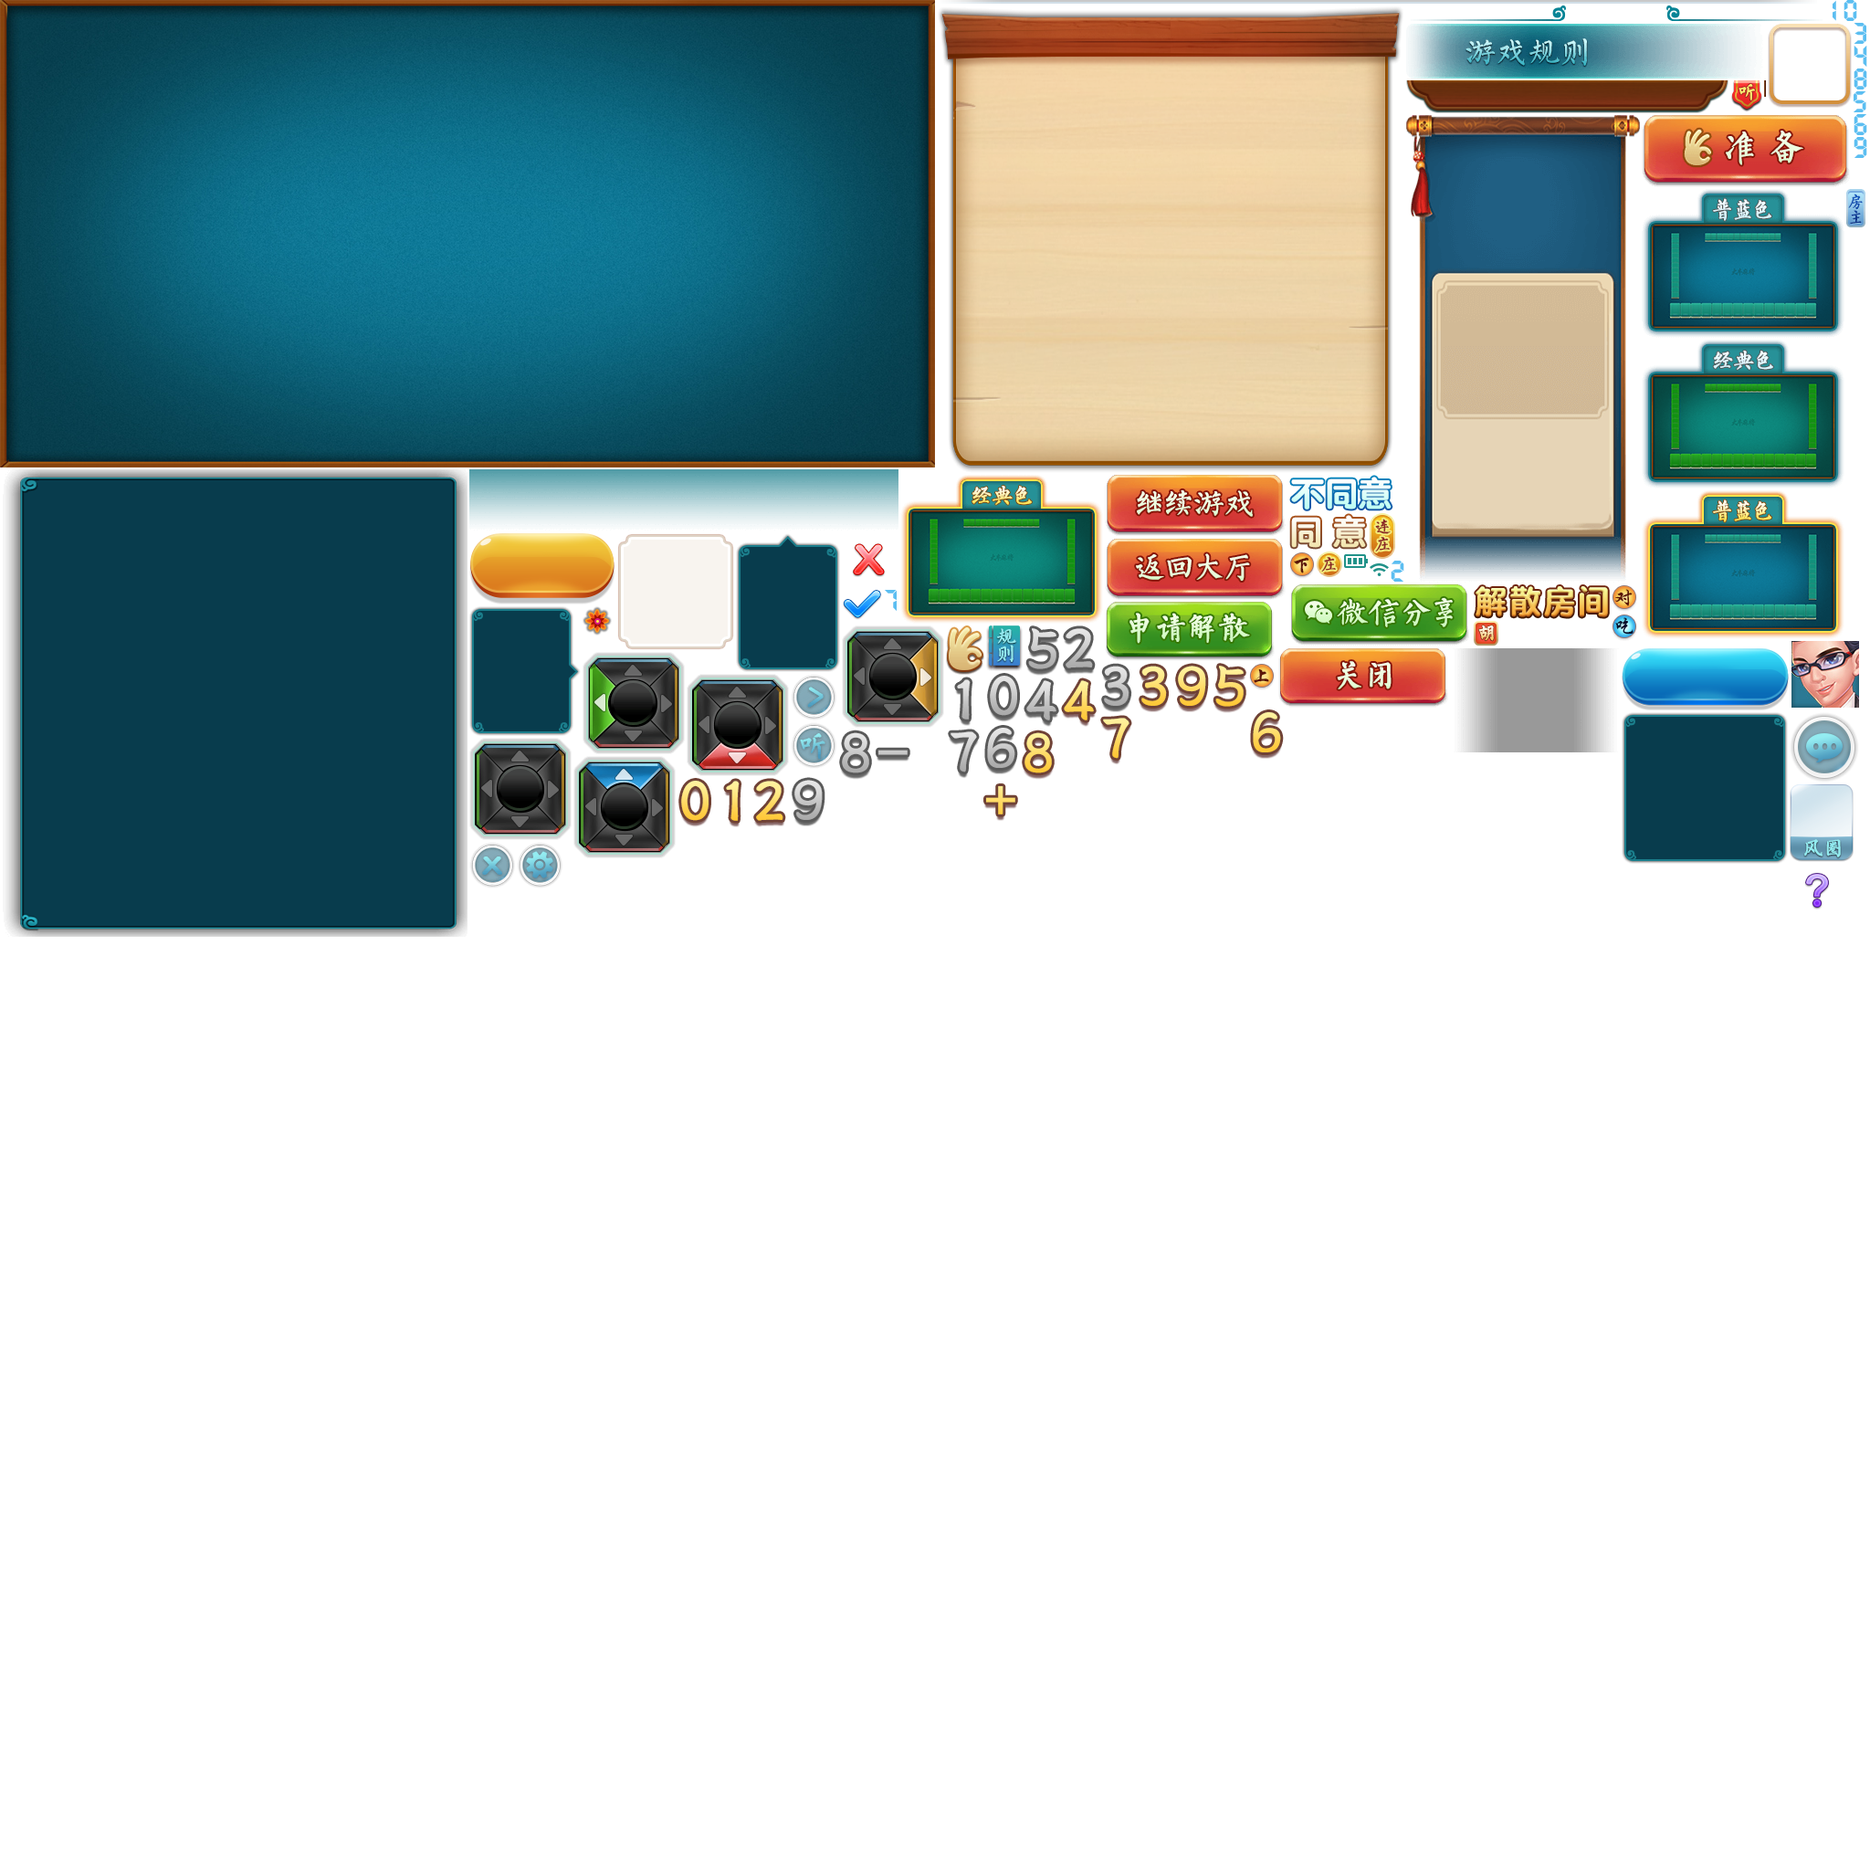
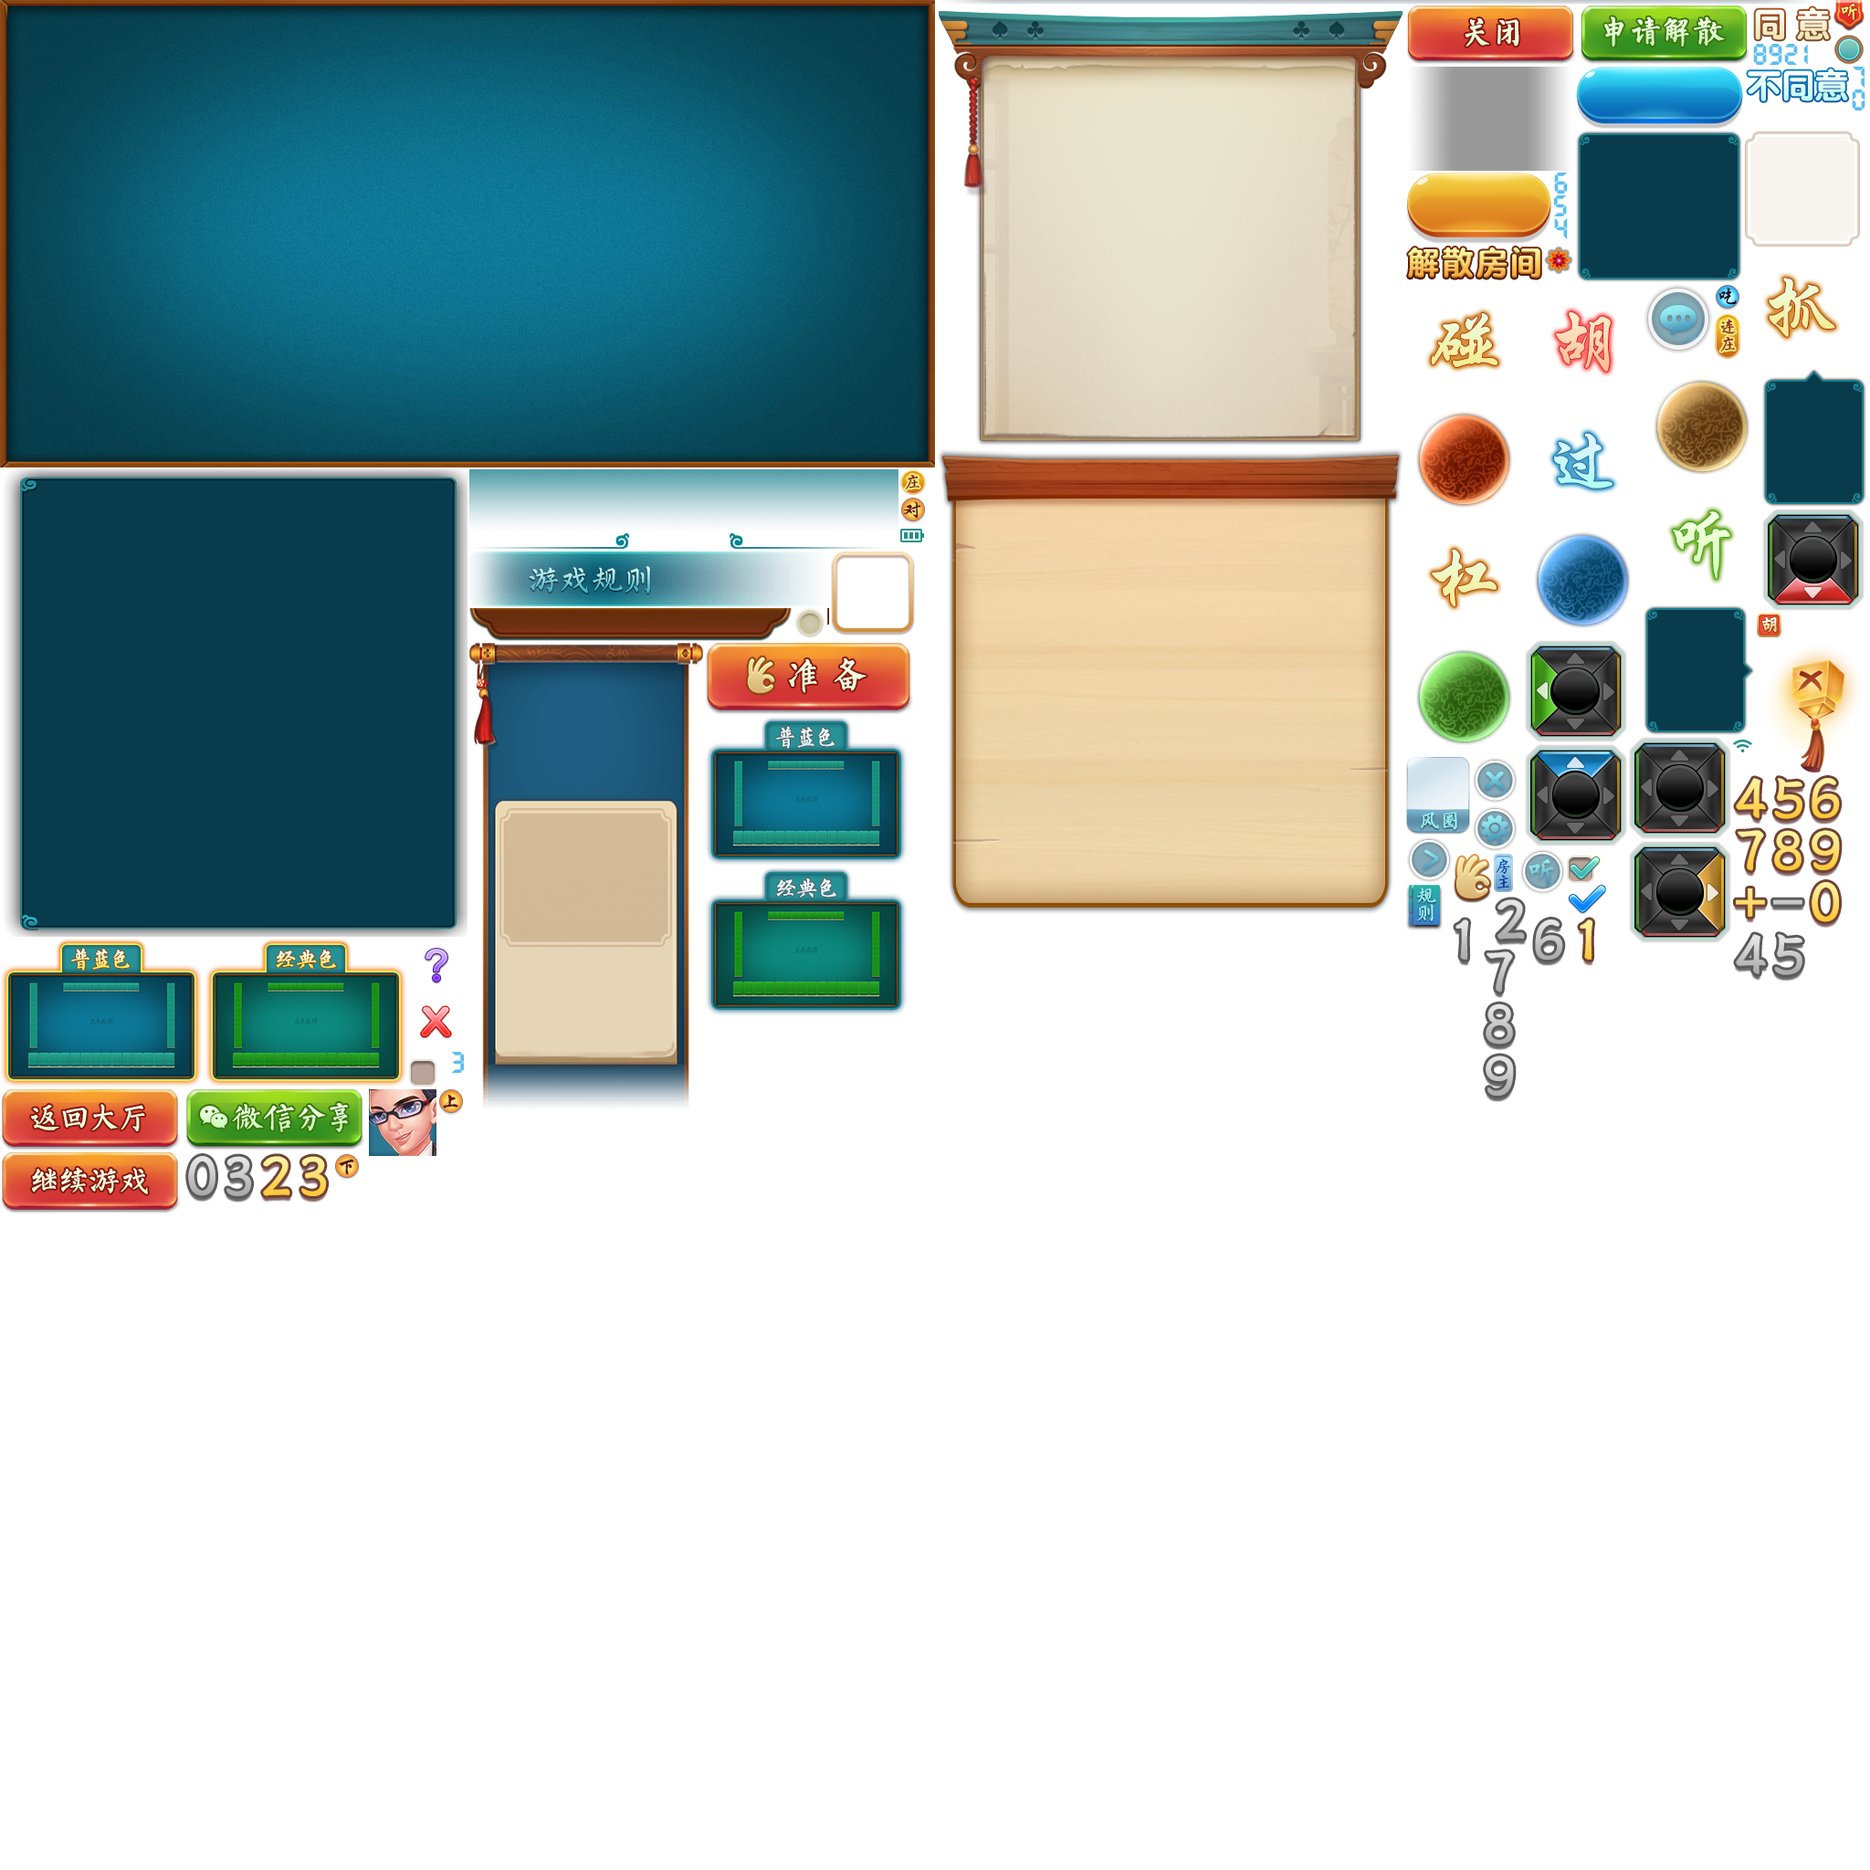
房间规则

Changed region(s): [[0.0, 0.0, 1.0, 0.6562]]

diff --git a/assets/Script/modules/lobby/views/DFRuleView.ts b/assets/Script/modules/lobby/views/DFRuleView.ts
@@ -37,19 +37,19 @@ export class DFRuleView {
     private priceCfg: object = null;
     private recordKey: string = "GZRule";
 
-    private readonly rules: {[key: string]: string | number | boolean} = {
-            ["roomType"]: 1,
-            ["playerNumAcquired"]: 4,
-            ["payNum"]: 24,
-            ["payType"]: 0,
-            ["handNum"]: 4,
-            ["doubleScoreWhenSelfDrawn"]: true,
-            ["doubleScoreWhenContinuousBanker"]: true,
-            ["doubleScoreWhenZuoYuanZi"]: true,
-            ["fengDingType"]: 0,
-            ["dunziPointType"]: 0,
-            //--游戏模块
-            ["modName"]: "gameb"
+    private readonly rules: { [key: string]: string | number | boolean } = {
+        ["roomType"]: 1,
+        ["playerNumAcquired"]: 4,
+        ["payNum"]: 24,
+        ["payType"]: 0,
+        ["handNum"]: 4,
+        ["doubleScoreWhenSelfDrawn"]: true,
+        ["doubleScoreWhenContinuousBanker"]: true,
+        ["doubleScoreWhenZuoYuanZi"]: true,
+        ["fengDingType"]: 0,
+        ["dunziPointType"]: 0,
+        //--游戏模块
+        ["modName"]: "gameb"
     };
 
     public destroy(): void {
@@ -68,7 +68,7 @@ export class DFRuleView {
         createRoomBtn.onClick(this.onCreateRoomBtnClick, this);
     }
 
-    public updatePriceCfg(priceCfgs: {[key: string]: object}): void {
+    public updatePriceCfg(priceCfgs: { [key: string]: object }): void {
         if (priceCfgs !== null) {
             const roomType = this.rules[`roomType`];
             this.priceCfg = priceCfgs[`${roomType}`];
@@ -100,11 +100,11 @@ export class DFRuleView {
         this.togglePays[0] = this.view.getChild("ownerPayButton").asButton;
         this.togglePays[1] = this.view.getChild("aapPayButton").asButton;
 
-        this.togglePays[0] .getChild("title").text = "房主支付";
-        this.togglePays[1] .getChild("title").text = "AA支付";
+        this.togglePays[0].getChild("title").text = "房主支付";
+        this.togglePays[1].getChild("title").text = "AA支付";
 
-        this.togglePays[0] .onClick(this.updateComsumer, this);
-        this.togglePays[1] .onClick(this.updateComsumer, this);
+        this.togglePays[0].onClick(this.updateComsumer, this);
+        this.togglePays[1].onClick(this.updateComsumer, this);
 
         // 人数
         this.togglePlayerNums[0] = this.view.getChild("2Player").asButton;
@@ -150,15 +150,15 @@ export class DFRuleView {
             Logger.debug("jsnoStr:", jsonStr);
             if (jsonStr !== "") {
                 try {
-                    const config = <{[key: string]: boolean | number}>JSON.parse(jsonStr);
+                    const config = <{ [key: string]: boolean | number }>JSON.parse(jsonStr);
                     this.toggleRoundCounts[<number>config[1]].selected = true;
                     this.togglePays[<number>config[2]].selected = true;
                     this.togglePlayerNums[<number>config[3]].selected = true;
                     this.toggleFengDingTypes[<number>config[4]].selected = true;
                     this.toggleDunziPointTypes[<number>config[5]].selected = true;
                     this.toggleZMJF.selected = <boolean>config[6];
-                    this.toggleLZJF.selected = <boolean> config[7];
-                    this.toggleJYZ.selected = <boolean> config[8];
+                    this.toggleLZJF.selected = <boolean>config[7];
+                    this.toggleJYZ.selected = <boolean>config[8];
                 } catch (e) {
                     Logger.error("parse config error:", e);
                     // 如果解析不了，则清理数据
@@ -168,7 +168,7 @@ export class DFRuleView {
         }
     }
 
-    private getConfigTable(): {[key: string]: {[key: number]: number}} {
+    private getConfigTable(): { [key: string]: { [key: number]: number } } {
         return {
             ["playerNumAcquired"]: {
                 [0]: 2,
@@ -236,6 +236,9 @@ export class DFRuleView {
         const fengdingIndex = this.getToggleIndex(this.toggleFengDingTypes);
         rules[`fengDingType`] = configTable[`fengDingType`][fengdingIndex];
 
+        const dunziIndex = this.getToggleIndex(this.toggleDunziPointTypes);
+        rules[`dunziPointType`] = configTable[`dunziPointType`][dunziIndex];
+
         rules[`doubleScoreWhenSelfDrawn`] = this.toggleZMJF.selected;
         rules[`doubleScoreWhenContinuousBanker`] = this.toggleLZJF.selected;
         rules[`doubleScoreWhenZuoYuanZi`] = this.toggleJYZ.selected;
@@ -258,20 +261,20 @@ export class DFRuleView {
 
         Logger.debug(`key: ${key}`);
 
-        const priceCfg = <{[key: string]: object}>this.priceCfg;
-        const activityPriceCfg =  <{[key: string]: object}>priceCfg.activityPriceCfg;
+        const priceCfg = <{ [key: string]: object }>this.priceCfg;
+        const activityPriceCfg = <{ [key: string]: object }>priceCfg.activityPriceCfg;
         if (activityPriceCfg !== null) {
-            const discountCfg = <{[key: string]: number}> activityPriceCfg.discountCfg;
+            const discountCfg = <{ [key: string]: number }>activityPriceCfg.discountCfg;
 
             return discountCfg[key];
         }
 
-        const originalPriceCfg = <{[key: string]: number}> priceCfg.originalPriceCfg;
+        const originalPriceCfg = <{ [key: string]: number }>priceCfg.originalPriceCfg;
         if (originalPriceCfg !== null) {
             return originalPriceCfg[key];
         }
 
-        return  0;
+        return 0;
     }
 
     private onCreateRoomBtnClick(): void {

diff --git a/assets/Script/modules/gameb/RoomRuleView.ts b/assets/Script/modules/gameb/RoomRuleView.ts
@@ -1,0 +1,119 @@
+import { Logger } from "../lobby/lcore/LCoreExports";
+
+/**
+ * 房间规则界面
+ */
+export class RoomRuleView extends cc.Component {
+
+    private view: fgui.GComponent;
+    private win: fgui.Window;
+
+    private eventTarget: cc.EventTarget;
+
+    public updateView(roomConfigStr: string): void {
+        //
+        const roomConfigJSON = <{ [key: string]: boolean | number | string }>JSON.parse(roomConfigStr);
+        Logger.debug("roomConfigJSON = ", roomConfigJSON);
+
+        const payType = <number>roomConfigJSON[`payType`];
+        const lianZhuangJiaFen = <boolean>roomConfigJSON[`doubleScoreWhenContinuousBanker`];
+        const ziMoJiaFen = <boolean>roomConfigJSON[`doubleScoreWhenSelfDrawn`];
+        const jinYuanZi = <boolean>roomConfigJSON[`doubleScoreWhenZuoYuanZi`];
+        const fengDingType = <number>roomConfigJSON[`fengDingType`];
+        const dunziPointType = <number>roomConfigJSON[`dunziPointType`];
+        const handNum = <number>roomConfigJSON[`handNum`];
+
+        if (payType !== undefined || payType !== null) {
+            this.view.getController("payCtrl").selectedIndex = payType;
+        }
+
+        if (fengDingType !== undefined || fengDingType !== null) {
+            this.view.getController("fengdingCtrl").selectedIndex = fengDingType;
+        }
+
+        if (dunziPointType !== undefined || dunziPointType !== null) {
+            this.view.getController("dunziCtrl").selectedIndex = dunziPointType;
+        }
+
+        if (handNum !== undefined || handNum !== null) {
+            let index = 0;
+            if (handNum === 8) {
+                index = 1;
+            } else if (handNum === 16) {
+                index = 2;
+            }
+
+            this.view.getController("roundCtrl").selectedIndex = index;
+        }
+
+        if (lianZhuangJiaFen !== undefined || lianZhuangJiaFen !== null) {
+            this.view.getChild("lzjf").asButton.selected = lianZhuangJiaFen;
+        }
+
+        if (ziMoJiaFen !== undefined || ziMoJiaFen !== null) {
+            this.view.getChild("zmjf").asButton.selected = ziMoJiaFen;
+        }
+
+        if (jinYuanZi !== undefined || jinYuanZi !== null) {
+            this.view.getChild("jyz").asButton.selected = jinYuanZi;
+        }
+
+    }
+
+    protected onLoad(): void {
+
+        this.eventTarget = new cc.EventTarget();
+
+        const view = fgui.UIPackage.createObject("dafeng", "room_rule_view").asCom;
+        this.view = view;
+
+        const win = new fgui.Window();
+        win.contentPane = view;
+        win.modal = true;
+
+        this.win = win;
+        this.win.show();
+
+        this.initView();
+    }
+
+    protected onDestroy(): void {
+        Logger.debug("onDestroy--------------------");
+        this.eventTarget.emit("destroy");
+        this.win.hide();
+        this.win.dispose();
+        Logger.debug("onDestroy--------------------done");
+    }
+
+    private onCloseClick(): void {
+        this.destroy();
+
+    }
+
+    private initView(): void {
+        //
+
+        const closeBtn = this.view.getChild("closeBtn");
+        closeBtn.onClick(this.onCloseClick, this);
+
+        this.view.getChild("ownerPay").asButton.getChild("title").text = "房主支付";
+        this.view.getChild("aaPay").asButton.getChild("title").text = "平摊支付";
+
+        this.view.getChild("zmjf").asButton.getChild("title").text = "自摸加分";
+        this.view.getChild("lzjf").asButton.getChild("title").text = "连庄加分";
+        this.view.getChild("jyz").asButton.getChild("title").text = "进院子";
+
+        this.view.getChild("fengding1").asButton.getChild("title").text = "20/40";
+        this.view.getChild("fengding2").asButton.getChild("title").text = "30/60";
+        this.view.getChild("fengding3").asButton.getChild("title").text = "50/100/150";
+        this.view.getChild("fengding4").asButton.getChild("title").text = "100/200/300";
+
+        this.view.getChild("dunzi1").asButton.getChild("title").text = "1分/2分";
+        this.view.getChild("dunzi2").asButton.getChild("title").text = "10分/20分/30分";
+
+        this.view.getChild("round1").asButton.getChild("title").text = "4局";
+        this.view.getChild("round2").asButton.getChild("title").text = "8局";
+        this.view.getChild("round3").asButton.getChild("title").text = "16局";
+    }
+
+}

diff --git a/assets/Script/modules/gameb/RoomView.ts b/assets/Script/modules/gameb/RoomView.ts
@@ -4,6 +4,7 @@ import { DisbandView } from "./DisbandView";
 import { PlayerView } from "./PlayerView";
 import { proto } from "./proto/protoGame";
 import { RoomInterface, TingPai } from "./RoomInterface";
+import { RoomRuleView } from "./RoomRuleView";
 import { SettingView } from "./SettingView";
 import { TileImageMounter } from "./TileImageMounter";
 const mjproto = proto.mahjong;
@@ -273,6 +274,15 @@ export class RoomView {
     //     // )
     // }
 
+    private onRoomRuleBtnClick(): void {
+        let roomRuleView = this.component.getComponent(RoomRuleView);
+
+        if (roomRuleView === undefined || roomRuleView == null) {
+            roomRuleView = this.component.addComponent(RoomRuleView);
+        }
+        roomRuleView.updateView(this.room.roomInfo.roomConfig);
+    }
+
     private onSettingBtnClick(): void {
         // Logger.debug("onSettingBtnClick---------------");
         const settingView = this.component.addComponent(SettingView);
@@ -311,15 +321,16 @@ export class RoomView {
         chatBtn.onClick(this.onChatBtnClick, this);
 
         const settingBtn = this.unityViewNode.getChild("settingBtn");
+        settingBtn.onClick(this.onSettingBtnClick, this);
 
         const infoBtn = this.unityViewNode.getChild("guizeBtn");
-        infoBtn.visible = true;
+        //infoBtn.visible = true;
+        infoBtn.onClick(this.onRoomRuleBtnClick, this);
 
         this.readyButton = this.unityViewNode.getChild("ready").asButton;
         this.readyButton.visible = false;
         this.readyButton.onClick(this.room.onReadyButtonClick, this.room);
 
-        settingBtn.onClick(this.onSettingBtnClick, this);
     }
 
     private initOtherView(): void {

diff --git a/assets/Script/modules/lobby/views/NewRoomView.ts b/assets/Script/modules/lobby/views/NewRoomView.ts
@@ -132,7 +132,7 @@ export class NewRoomView extends cc.Component {
 
         const myUserID = DataStore.getString("userID", "");
         const myUser = { userID: myUserID };
-        const myRoomInfo = { roomID: roomInfo.roomID, roomNumber: roomInfo.roomNumber };
+        const myRoomInfo = { roomID: roomInfo.roomID, roomNumber: roomInfo.roomNumber, roomConfig: roomInfo.config };
         const roomConfig = roomInfo.config;
         const roomConfigJSON = <{ [key: string]: boolean | number | string }>JSON.parse(roomConfig);
         const modName = <string>roomConfigJSON[`modName`];

diff --git a/assets/Script/modules/lobby/views/LobbyView.ts b/assets/Script/modules/lobby/views/LobbyView.ts
@@ -124,7 +124,7 @@ export class LobbyView extends cc.Component {
     }
     private onFriendClick(): void {
         const myUser = { userID: "6" };
-        const roomInfo = { roomID: "monkey-room", roomNumber: "monkey-room" };
+        const roomInfo = { roomID: "monkey-room", roomNumber: "monkey-room", roomConfig: "" };
 
         const params: GameModuleLaunchArgs = {
             jsonString: "",

diff --git a/assets/Script/modules/gameb/GameModule.ts b/assets/Script/modules/gameb/GameModule.ts
@@ -387,6 +387,7 @@ export class GameModule extends cc.Component implements GameModuleInterface {
         const roomInfo = {
             roomID: "",
             roomNumber: msgHandRecord.roomNumber,
+            roomConfig: msgAccLoadReplayRecord.roomJSONConfig,
             gameServerURL: "",
             state: 1,
             config: msgHandRecord.roomConfigID,

diff --git a/assets/Script/modules/lobby/lcore/LDataType.ts b/assets/Script/modules/lobby/lcore/LDataType.ts
@@ -15,6 +15,8 @@ export class UserInfo {
 export class RoomInfo {
     public roomID: string;
     public roomNumber: string;
+
+    public roomConfig: string;
 }
 
 export interface GResLoader {
